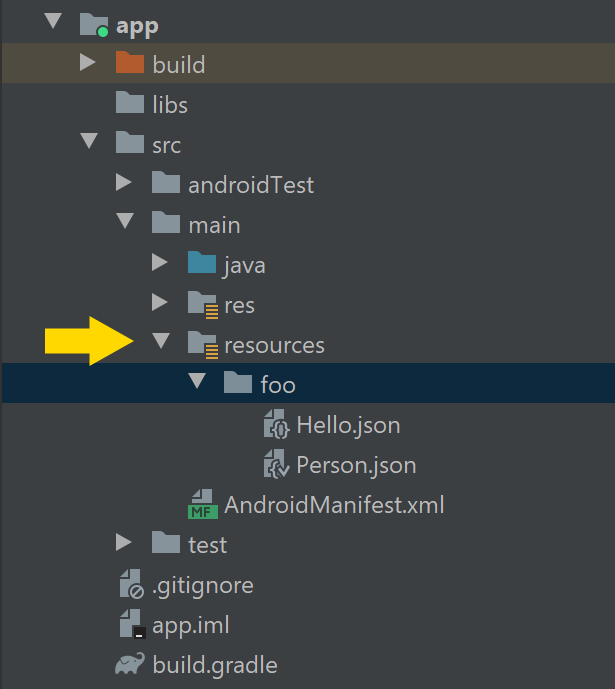
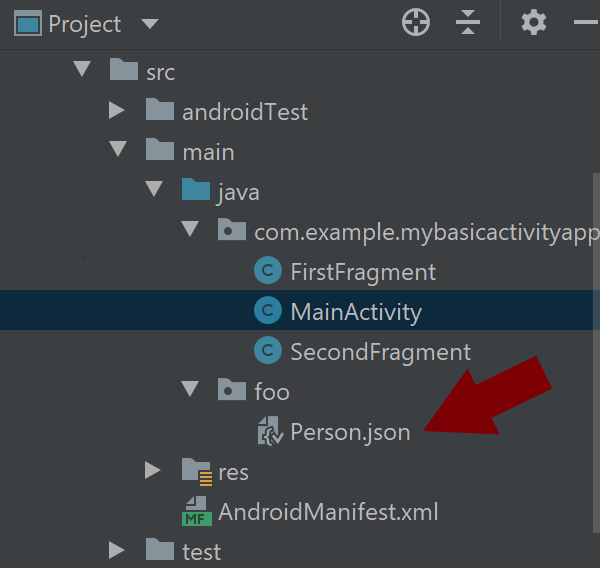
docs

diff --git a/docs/android.md b/docs/android.md
@@ -129,8 +129,8 @@ implementation 'systems.manifold:manifold-text:2020.1.13'
 ## Resources
 
 If you use a [type manifold](https://github.com/manifold-systems/manifold/tree/master/manifold-core-parent/manifold#the-big-picture)
-that is based on resource files such as GraphQL, JSON, Templates, etc. you must create a `resources` directory to
-contain the files.  Do **not** place them in the `res` or `assets` directories.
+that is based on resource files such as GraphQL, JSON, Templates, etc. you must place the resource files in the 
+`source` directory along with your Java files.  Do **not** place them in the `res` or `assets` directories.
  
-<p><img src="http://manifold.systems/images/android_resources.png" alt="echo method" width="60%" height="60%"/></p> 
+<p><img src="http://manifold.systems/images/android_resources.png" alt="echo method" width="50%" height="50%"/></p> 
 
